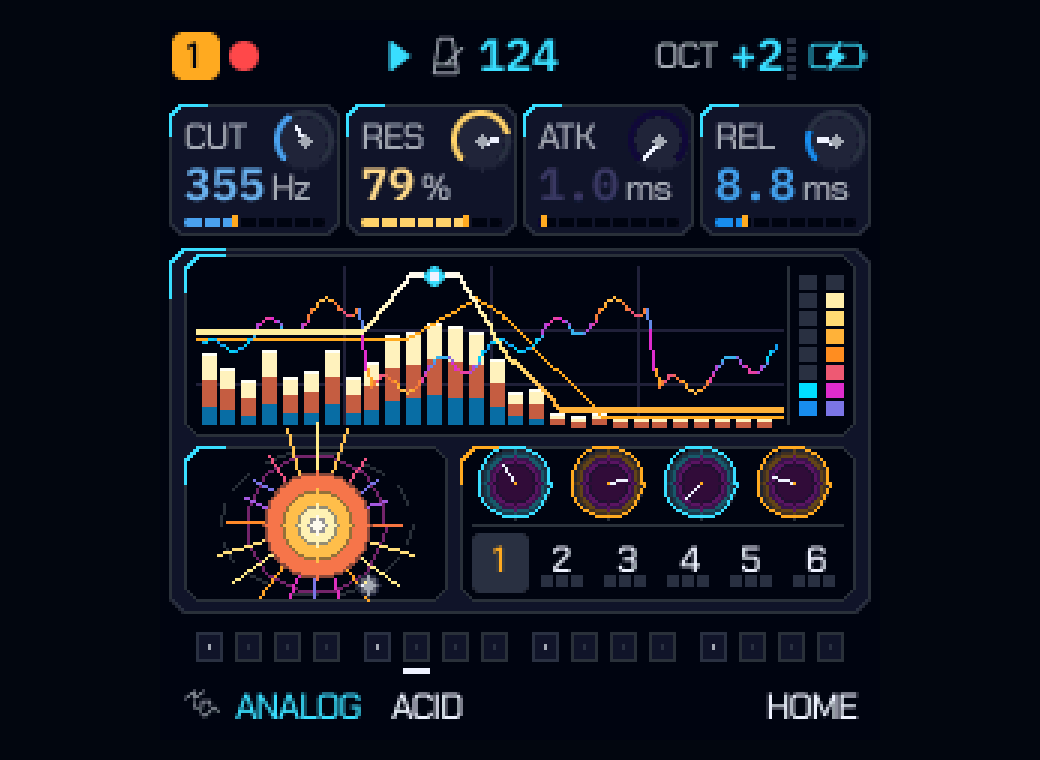
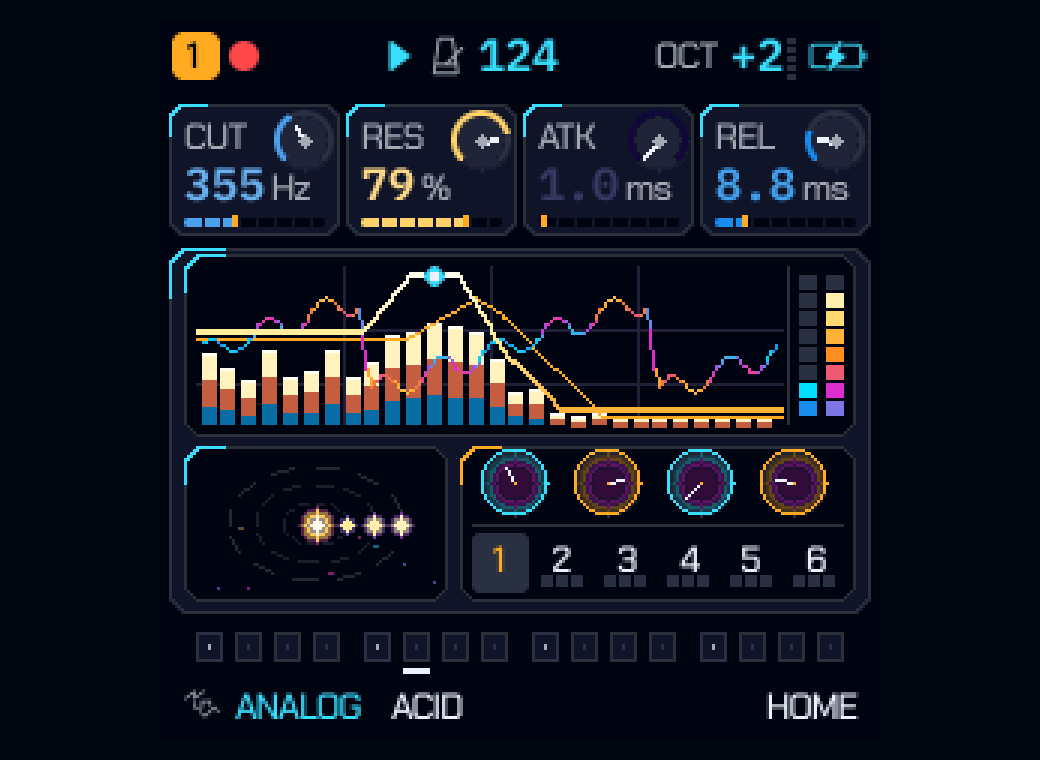
feat(home): a system instead of a sun, and dust behind it
HOME's lower-left bay drew THE HEARTH: a concentric burning disc with twenty radial flares and one
moon. At 240 x 240 that reads as a sun seal -- Pocket GammaWave's mark, not this instrument's. The
bay now draws a system: three dotted ellipses at their own tilts and speeds, four planets with their
own sizes, and a small star. Depth is in the drawing order, not a shader: the planets whose orbit is
behind the star's plane are dimmed and painted before it, the ones in front are painted after it at
full strength. Every primitive is the one that was already there (gw_disc, gw_orbit_ring, bg_col,
one sine each), and it costs less per frame than the twenty flares and eight discs it replaces.

Particles: the ember field that lived inside the full-screen visualizer is now gw_embers() in
ui_being.c, called by the visualizer and by HOME's bay, so there is one implementation and the two
screens cannot drift apart. 18 embers at HIGH, 12 at BALANCED, 6 at LOW; deterministic, no
allocation, one sine per particle per frame, always behind the trace, the spectrum, the planets and
the labels -- and only in the bay that is a picture, never under the mini-knobs of the control bay.

Interaction has a response: a HOME tap on HOME, or a knob turned on HOME, sets ui.home_pulse, and
for 45 frames the system answers with an expanding dotted ring and a handful of sparks from the
existing vz_np pool (the one the note sparkles use). No new particle system, no new buffer: image
[…]

Changed region(s): [[0.4615, 0.575, 0.8, 0.6961], [0.2154, 0.575, 0.4, 0.7868]]

diff --git a/web/site/index.html b/web/site/index.html
@@ -405,13 +405,12 @@
     <div class="wrap">
       <div class="section-head">
         <div><div class="rule"></div><div class="eyebrow">Capturas actuales</div><h2 style="margin-top:14px">La interfaz,<br>sin renders.</h2></div>
-        <p>Pantallas capturadas del emulador y del sitio publicados. La identidad Quantum recorre firmware, Web Emulator, Web Studio e instalador.</p>
+        <p>Pantallas del firmware, renderizadas por su propio código a 240 × 240 y ampliadas sin interpolar. Sin marcos de emulador, sin controles y sin teclado físico: lo que ves es lo que muestra el instrumento.</p>
       </div>
       <div class="showcase">
         <figure class="shot big"><img src="assets/fw-visualizer.png" alt="El visualizador del firmware, 240 x 240: osciloscopio, traza de fase, espectro y partículas."><figcaption><b>HOME → HOME</b><span>VISUALIZADOR</span></figcaption></figure>
         <figure class="shot"><img src="assets/fw-mixer.png" alt="La página MIXER del firmware: seis pistas con nivel, paneo, envío y mute."><figcaption><b>MIXER</b><span>SEIS PISTAS</span></figcaption></figure>
         <figure class="shot"><img src="assets/fw-fx.png" alt="La página FX del firmware: distorsión, chorus, delay y reverb por pista."><figcaption><b>FX</b><span>POR PISTA</span></figcaption></figure>
-        <figure class="shot"><img src="assets/webstudio.png" alt="Web Studio de Quantum GammaWave con el HUD de hardware, telemetría y biblioteca de sonidos."><figcaption><b>WEB STUDIO</b><span>ESCRITORIO</span></figcaption></figure>
         <figure class="shot"><img src="assets/installer.png" alt="Instalador USB de Quantum GammaWave con verificación de paquete y advertencias."><figcaption><b>INSTALADOR</b><span>USB-MIDI</span></figcaption></figure>
       </div>
     </div>

diff --git a/firmware/src/ui_being.c b/firmware/src/ui_being.c
@@ -119,6 +119,10 @@ static void gw_note_particles(int32_t x0, int32_t y0, int32_t w, int32_t h)
     }
 }
 #else
+/* the host's deterministic pixel builds (UI_NO_DRIFT) freeze the sparks: the pool is not there, and
+ * nothing that would add to it must fail to compile because of that */
+static void vz_np_add(int32_t x, int32_t y, int32_t vx, int32_t vy, uint16_t col, uint8_t life, uint8_t size)
+{ (void)x; (void)y; (void)vx; (void)vy; (void)col; (void)life; (void)size; }
 static void gw_note_particles(int32_t x0, int32_t y0, int32_t w, int32_t h)
 { (void)x0; (void)y0; (void)w; (void)h; }
 #endif
@@ -299,50 +303,83 @@ static uint32_t vz_flares(void) { return ui_viz_q >= 2u ? 8u : ui_viz_q == 1u ? 
 static uint32_t vz_qframe(void) { uint32_t s = vz_step(); return ui.frame / s * s; }
 
 /* ============================================================================
- * 1. THE HEARTH (Ported from HearthVisualizer in PluginEditorComponents.h)
- *    Solar Furnace Core + Radial Flare Corona + Orbiting Moon (1.9: no particle field)
+ * 1. HOME'S SYSTEM: a small star, three orbits, four planets (2.0)
+ *    Replaces THE HEARTH's blazing sun: the concentric disc + 20 radial flares + a single moon
+ *    read as a sun seal, which is Pocket GammaWave's mark and not this instrument's. What is left
+ *    is the same vocabulary -- gw_disc, gw_orbit_ring, bg_col(heat), bg_sin and the frame counter
+ *    (vz_qframe through the caller) -- arranged as a system seen slightly from above: planets on
+ *    their own ellipses, their own speeds and their own sizes, the ones behind the star dimmed
+ *    and drawn before it, the ones in front drawn after it. No new primitive, no allocation, and
+ *    the cost is 3 rings + 5 discs + 4 sines per frame, below the sun's 20 flares + 8 discs.
+ *
+ *    Particles are NOT drawn here: gw_embers() (below) paints the bay's dust behind this, and the
+ *    interaction pulse uses the existing vz_np pool. Both are shared with the full-screen
+ *    visualizer, so the firmware keeps one particle implementation, not two.
  * ============================================================================ */
-static void gw_draw_hearth(int32_t cx, int32_t cy, int32_t r_core, int32_t en, int32_t heat, int32_t sparks, uint32_t tm)
+static void gw_planet(int32_t x, int32_t y, int32_t r, int32_t heat, int front)
 {
-    int32_t i, r_outer = r_core + 4 + (en * 4 >> 8), rx_orb = r_core + 20, ry_orb = r_core + 12;
-    uint32_t moon_ang = tm / 3u + 0x2800u, nfl = vz_flares();   /* (v1.5) the flares' count and their spacing */
-    (void)sparks;                                                /* (1.9) it sized the sparks HOME no longer draws */
-    int32_t mx = cx + (rx_orb * bg_sin(moon_ang + 0x4000u) >> 15);
-    int32_t my = cy + (ry_orb * bg_sin(moon_ang) >> 15);
+    if (r < 2) r = 2;
+    gw_disc(x, y, r + 1, ux_mix(T_BG, bg_col(60 + heat / 4), front ? 70 : 34));
+    gw_disc(x, y, r, front ? bg_col(150 + heat / 3) : ux_mix(T_BG, bg_col(120 + heat / 3), 62));
+    cv_pset(x - (r >> 1), y - (r >> 1), front ? bg_col(232) : T_DIM);   /* the lit limb, same side for all */
+}
 
-    /* 1. Elliptical Orbital Path (dotted) */
-    gw_orbit_ring(cx, cy, rx_orb, ry_orb, T_LINE, 1);
-    gw_orbit_ring(cx, cy, r_outer + 5, r_outer + 5, ux_mix(T_SURF, bg_col(64 + heat / 3), 45), 0);
-
-    /* 2. Solar Flare Corona Rays (20 smooth radial flares modulated by heat & audio) */
-    for (i = 0; i < (int32_t)nfl; i++) {                /* (v1.5) still the whole circle: the spacing is nfl's */
-        uint32_t a = (uint32_t)i * 65536u / nfl + (tm >> 2);
-        int32_t wave = (bg_sin(a * 3u - tm) + 32768) >> 12;   /* 0..16 */
-        int32_t len = 3 + ((heat + en) * (3 + (wave >> 1)) >> 8);
-        int32_t x0 = cx + ((r_outer - 1) * bg_sin(a + 0x4000u) >> 15);
-        int32_t y0 = cy + ((r_outer - 1) * bg_sin(a) >> 15);
-        int32_t x1 = cx + ((r_outer + len) * bg_sin(a + 0x4000u) >> 15);
-        int32_t y1 = cy + ((r_outer + len) * bg_sin(a) >> 15);
-        cv_line(x0, y0, x1, y1, bg_col(110 + (wave * 7)));
+static void gw_draw_system(int32_t cx, int32_t cy, int32_t r, int32_t en, int32_t heat, uint32_t tm)
+{
+    /* three orbits, each with its own planet: radius, tilt, speed and size */
+    static const int8_t ORX[3] = {11, 20, 29};
+    static const uint8_t ORSPD[3] = {11, 17, 26};
+    static const uint8_t ORPHS[3] = {0x0000, 0x2A00, 0x5100};
+    static const uint8_t ORR[3] = {2, 3, 3};
+    int32_t i, orb_x, orb_y;
+    if (r < 3) r = 3;
+    if (r > 6) r = 6;                                 /* a star, not a sun: the planets carry the bay */
+    for (i = 0; i < 3; i++) {                        /* the paths first: they are behind everything */
+        gw_orbit_ring(cx, cy, ORX[i], ORX[i] * 2 / 3, ux_mix(T_BG, T_LINE, 50 + i * 15), 1);
     }
+    /* the planets behind the star's plane, dimmed */
+    for (i = 0; i < 3; i++) {
+        uint32_t a = (uint32_t)ORPHS[i] + tm * ORSPD[i] / 256u;
+        orb_x = cx + (ORX[i] * bg_sin(a + 0x4000u) >> 15);
+        orb_y = cy + ((ORX[i] * 2 / 3) * bg_sin(a) >> 15);
+        if (orb_y < cy)
+            gw_planet(orb_x, orb_y, ORR[i], heat + i * 20, 0);
+    }
+    /* the star: three discs, no rays -- a source, not a seal */
+    gw_disc(cx, cy, r + 1, ux_mix(T_BG, bg_col(70 + heat / 3), 58));
+    gw_disc(cx, cy, r, bg_col(168 + en / 5));
+    gw_disc(cx, cy, r * 60 / 100, bg_col(226 + en / 9));
+    gw_disc(cx, cy, r * 28 / 100, bg_col(252));
+    /* and the ones in front, at full strength, over the star's rim where they cross it */
+    for (i = 0; i < 3; i++) {
+        uint32_t a = (uint32_t)ORPHS[i] + tm * ORSPD[i] / 256u;
+        orb_x = cx + (ORX[i] * bg_sin(a + 0x4000u) >> 15);
+        orb_y = cy + ((ORX[i] * 2 / 3) * bg_sin(a) >> 15);
+        if (orb_y >= cy)
+            gw_planet(orb_x, orb_y, ORR[i], heat + i * 20, 1);
+    }
+}
 
-    /* 3. (1.9) HOME HAS NO PARTICLES. The orbiting star field that used to sit here drew up to 14
-     * sparks around the core on every frame; the corona's flares (above) and the orbiting moon
-     * (below) are shapes of the being, not a particle field, and they stay. The visualizer keeps
-     * its ember field (ui_graph.c graph_home_viz), where particles were designed to live. */
-
-    /* 4. Concentric Solar Furnace Disc (Mantle -> Golden Core -> White-Hot Singularity) */
-    gw_disc(cx, cy, r_outer, bg_col(88 + heat / 3));
-    gw_disc(cx, cy, r_core, bg_col(156 + en / 4));
-    gw_disc(cx, cy, r_core * 65 / 100, bg_col(212 + en / 8));
-    gw_disc(cx, cy, r_core * 32 / 100, bg_col(250));
-
-    /* 5. Orbiting Satellite Moon (HearthVisualizer lines 1554-1583) */
-    gw_disc(mx, my, 4, T_RAISE);
-    gw_disc(mx, my, 3, T_MID);
-    /* Sunlit crescent facing the Hearth core */
-    cv_pset(mx + (cx > mx ? 1 : -1), my + (cy > my ? 1 : -1), bg_col(220));
-    cv_pset(mx + (cx > mx ? 2 : -2), my, T_TEXT);
+/* the ambient dust of a bay: deterministic, no allocation, one sine per particle per frame. It is
+ * the same field the full-screen visualizer draws (graph_home_viz), moved here so there is one
+ * implementation: n embers drifting in a rect, dimmed to `bg` so they read as depth and never as
+ * data. MENU > VISUALIZER QUALITY thins them; PREF_ANIM_OFF stops the motion (not the field). */
+static void gw_embers(int32_t x0, int32_t y0, int32_t w, int32_t h, uint32_t n, uint32_t seed,
+                      int32_t heat0, uint16_t bg)
+{
+    uint32_t i;
+    int mono = ux.mono || settings.palette == UI_BW_INDEX;
+    if (!w || !h || !n)
+        return;
+    for (i = 0; i < n; i++) {
+        int32_t px = x0 + 1 + (int32_t)(((i * 11u + (i % 5u) * 7u + seed) * 37u) % (uint32_t)(w - 2));
+        int32_t py = y0 + h / 2 + (int32_t)((bg_sin(ui.frame * (55u + (i % 7u) * 9u) + i * 4096u + seed) * (h / 3 + (i % 6u) * 2)) >> 15);
+        int32_t lvl = (int32_t)((bg_sin(ui.frame * (39u + (i % 5u) * 8u) + i * 3072u + seed) + 32768) >> 9);
+        if (py >= y0 && py < y0 + h && px >= x0 && px < x0 + w) {
+            uint16_t pc = mono ? (lvl > 90 ? T_TEXT : T_DIM) : ux_mix(bg, bg_col(heat0 + (int32_t)i * 7), 34 + lvl / 5);
+            cv_rect(px, py, (i % 5u) == 0u ? 2 : 1, 1, pc);
+        }
+    }
 }
 
 /* ============================================================================
@@ -663,16 +700,39 @@ static void graph_ecosys(void)
     /* 1. Upper Bay (y = 2..63): FILTER + Yellow-Orange-Purple Spectrogram Waterfall + Cyan Mod Curve */
     gw_draw_forge_bay(TSEL, 8, 2, 224, 61, tot_en);
 
-    /* 2. Lower-Left Bay (x = 8..96, y = 66..118): Blazing Yellow-White Sun + Orbiting Moon */
+    /* 2. Lower-Left Bay (x = 8..96, y = 66..118): HOME'S SYSTEM -- dust, three orbits, four planets.
+     *    The dust goes first (it is the bay's depth, never in front of a planet or a value), then the
+     *    system, then -- if the last ~0.7 s had a gesture -- the pulse. Nothing here is drawn under
+     *    the mini-knobs of the right bay: those are controls, and the effects belong to this picture. */
     gw_oct_panel(8, 66, 88, 52, 4, T_BG, T_LINE, 1, T_THEME);
-    gw_draw_hearth(52, 92, 10 + (tot_en >> 6), tot_en, 210, 180, tm);
+    gw_embers(10, 67, 84, 50, ui_viz_q >= 2u ? 6u : ui_viz_q == 1u ? 10u : 16u, 0x1300u, 96, T_BG);
+    gw_draw_system(52, 92, 4 + (tot_en >> 7), tot_en, 210, tm);
+    if (ui.home_pulse) {                                    /* a HOME tap or a knob turned on HOME */
+        uint32_t age = ui.frame - ui.home_pulse;
+        if (age >= 45u) {
+            ui.home_pulse = 0;
+        } else {
+            int32_t ring = 5 + (int32_t)age;               /* 5..49 px: it dies at the bay's edge */
+            if (ring < 40)
+                gw_orbit_ring(52, 92, ring, ring * 2 / 3, ux_mix(T_BG, T_THEME, 150 - (int32_t)age * 3), 1);
+            if (!(age & 3u)) {                            /* 4 sparks a frame, from the four orbits */
+                uint32_t k = (age / 4u) & 3u;
+                int32_t ang = (int32_t)k * 16384 + (int32_t)age * 700;
+                vz_np_add(52 + (bg_sin((uint32_t)ang + 0x4000u) * ring >> 15),
+                          92 + (bg_sin((uint32_t)ang) * ring * 2 / 3 >> 15),
+                          (bg_sin((uint32_t)ang + 0x4000u) * 3 >> 15), -(1 + (int32_t)(k & 1)),
+                          bg_col(150 + (int32_t)k * 30), 16, k == 0 ? 2 : 1);
+            }
+        }
+    }
 
     /* 3. Lower-Right Bay (x = 100..232, y = 66..118): HEARTH Physics Knobs (Heat/Sparks/Weight/Force) + 6 Track Pads */
     gw_oct_panel(100, 66, 132, 52, 4, T_BG, T_LINE, 1, T_ACCENT);
-    for (c = 0; c < 4u; c++) {
+    for (c = 0; c < 4u; c++) {                             /* (2.0) 8 px, not 9: a little smaller without
+                                                            * losing the value arc or the 31 px pitch */
         int32_t kv = bg_knob(c, 0);
         int32_t kx = 118 + (int32_t)c * 31;
-        gw_mini_bakelite_knob(kx, 78, 9, kv < 0 ? (110 + (int32_t)c * 28) : kv, (c & 1u) ? T_ACCENT : T_THEME);
+        gw_mini_bakelite_knob(kx, 78, 8, kv < 0 ? (110 + (int32_t)c * 28) : kv, (c & 1u) ? T_ACCENT : T_THEME);
     }
     cv_rect(104, 92, 124, 1, T_LINE);
 

diff --git a/firmware/src/ui_graph.c b/firmware/src/ui_graph.c
@@ -2529,15 +2529,11 @@ static void graph_home_viz(uint16_t c)
          * A field of drifting embers, deterministic and cheap: no allocation, one sine per particle per frame.
          * The vertical speed was ~21-45 units/frame, which read as frozen on the panel; 55-109 keeps the same
          * 18 particles and the same three primitives, so the draw cost does not grow with the motion. */
-        for (i = 0; ui.home_viz && i < 18u; i++) {
-            int32_t px = 24 + (int32_t)((i * 11u + (i % 5u) * 7u) % 198u);
-            int32_t py = 88 + (int32_t)((bg_sin(ui.frame * (55u + (i % 7u) * 9u) + i * 4096u) * (14 + (i % 6u) * 3)) >> 15);
-            int32_t lvl = (bg_sin(ui.frame * (39u + (i % 5u) * 8u) + i * 3072u) + 32768) >> 9;
-            if (py >= top_y && py < top_y + 88 && px >= 12 && px < 228) {
-                uint16_t pc = mono ? (lvl > 90 ? T_TEXT : T_DIM) : ux_mix(T_SURF, heat_col(80 + i * 8), 18 + lvl / 9);
-                cv_rect(px, py, i % 5u == 0u ? 2 : 1, 1, pc);
-            }
-        }
+        /* The ember field behind the visualizer: gw_embers() (ui_being.c) is the ONE implementation,
+         * shared with HOME's own bay, so the two screens cannot drift apart. 18 embers at HIGH, 12 at
+         * BALANCED, 6 at LOW; deterministic, no allocation, one sine per particle per frame, and all
+         * of it behind the trace, the spectrum and the labels. */
+        gw_embers(12, top_y, 216, 88, ui_viz_q >= 2u ? 6u : ui_viz_q == 1u ? 12u : 18u, 0u, 80, T_SURF);
 
         if (pass) {
             cv_rrect(12, 184, 72, 15, 3, T_THEME, T_SURF);

diff --git a/firmware/src/ui.c b/firmware/src/ui.c
@@ -216,6 +216,7 @@ static struct {
     uint8_t uboot;               /* main.c: seconds left before UPDATE MODE (OCT- + OCT+ held), 0 = none */
     uint32_t preset_pop_ms;      /* non-blocking 1.5s popup timer for PRESET knob browser */
     uint8_t home_viz;            /* 1 = full-screen integrated music visualizer on HOME -> HOME */
+    uint32_t home_pulse;         /* (2.0) the frame of the last HOME gesture: HOME's system answers with a ring and a burst */
     uint32_t ly_t0;              /* the layer button's press time | 1, LY_* bits (ui_layer.c layer_gesture) */
     uint8_t ly;                  /* the layer whose button is down (LAYER_*), 0 = none */
     uint8_t layer;               /* the layer whose map is shown (LAYER_*), 0 = none */
@@ -784,6 +785,7 @@ static void open_global(void)
 static void go_home(void)
 {
     if (ui.home) {
+        ui.home_pulse = ui.frame;                /* (2.0) HOME tapped on HOME: the system pulses */
         ui.home_viz = !ui.home_viz;              /* toggle visualizer if already at HOME */
     } else {
         ui.home = 1;

diff --git a/firmware/src/ui_input.c b/firmware/src/ui_input.c
@@ -1446,6 +1446,7 @@ static void presets_turn(int32_t s)
     const page_t *pg = cur_page();
     uint32_t g = pg->graph;
     if (ui.home || g == GR_BROWSE) {
+        ui.home_pulse = ui.frame;                        /* (2.0) a knob turned on HOME: same response */
         preset_step(s);
         ui.preset_pop_ms = fm1_ms ? fm1_ms : 1u;
         ui.force = 1;
